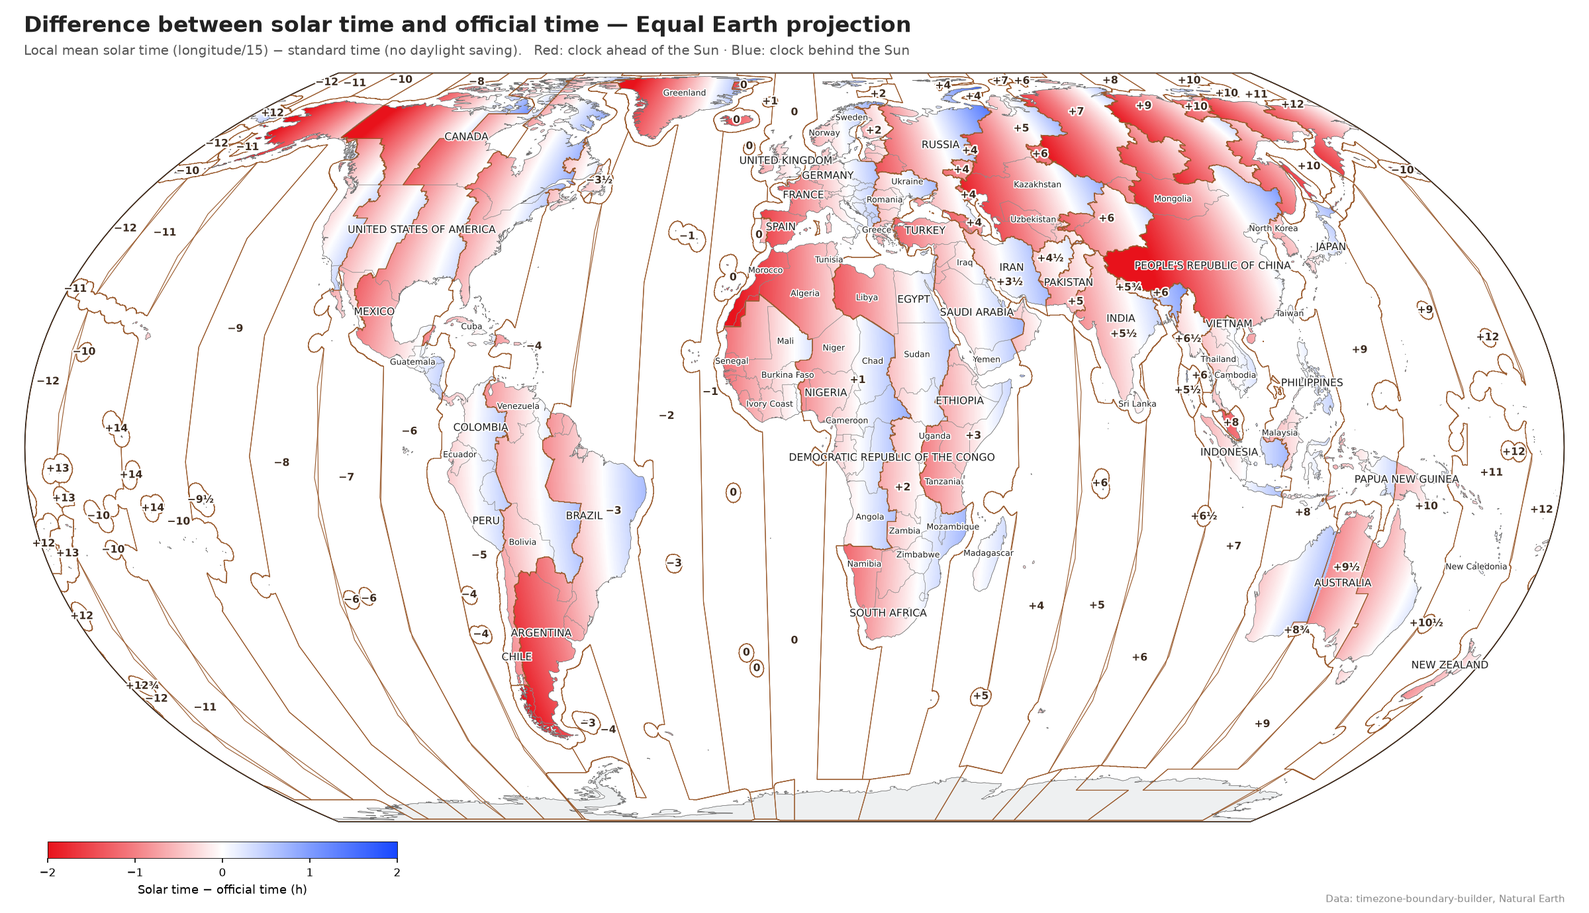
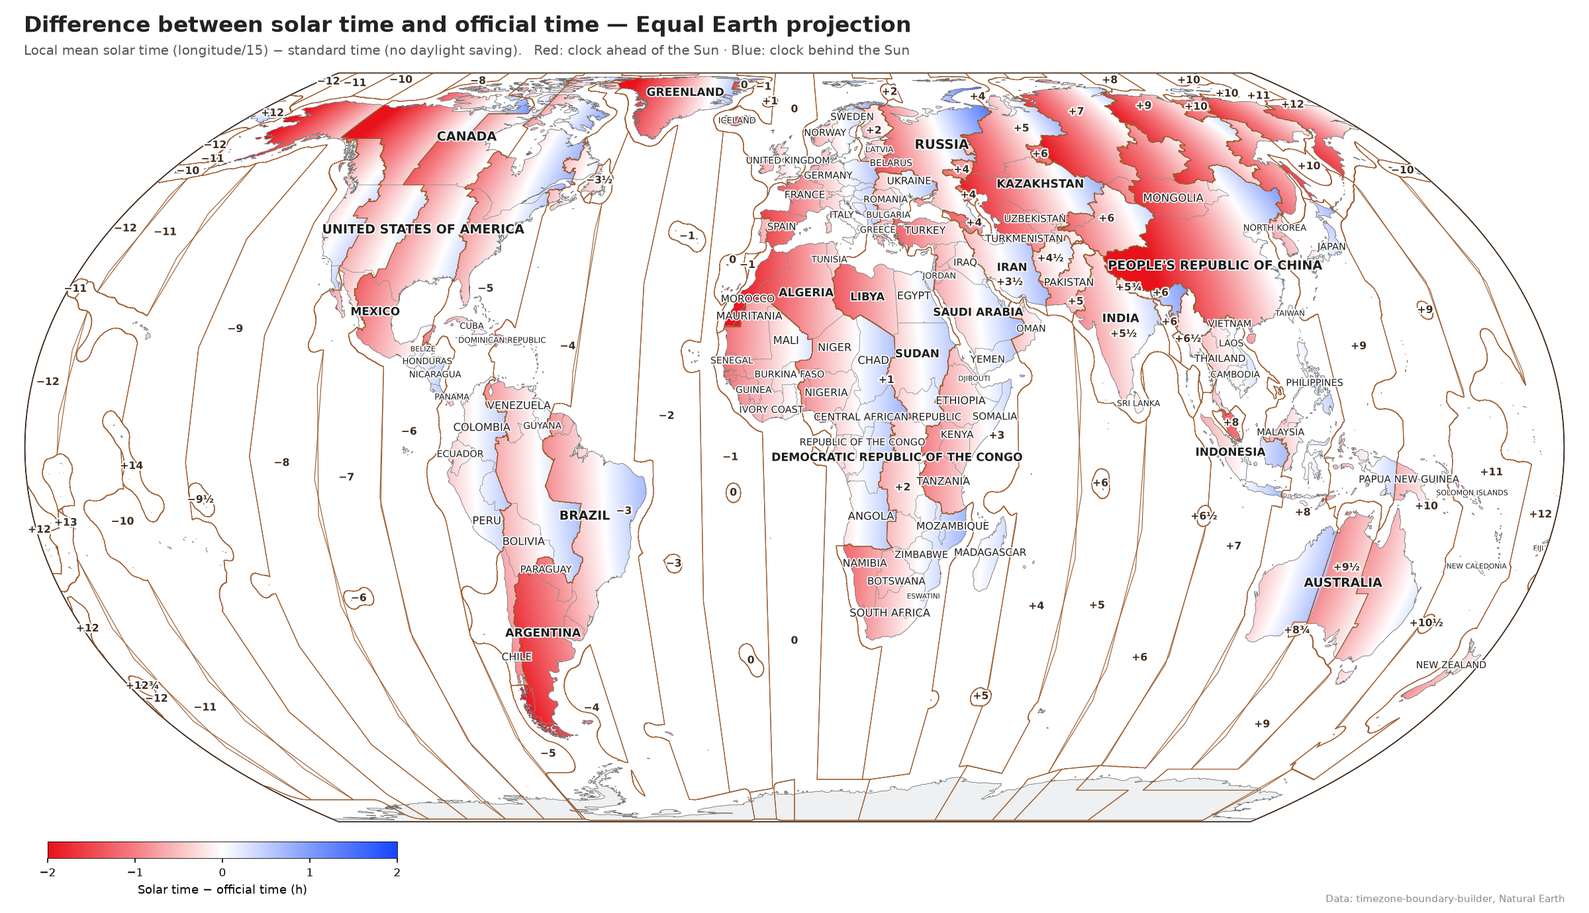
solar_time_map: join island groups, more names, ocean and sea labels
- --island-join (default 4°): morphological closing per UTC offset, so
  archipelagos (Hawaii, Line Islands, French Polynesia, Chile's islands)
  get one outline instead of a ring around each island
- Country names: all in capitals, sized by area, more countries, fallback
  spots and a smaller font for small countries in the zones map
- Zones map: ocean, sea and bay names (Natural Earth, translated) and the
  offset of each 15° strip under cylindrical maps
- Regenerated README images

diff --git a/solar_time_map.py b/solar_time_map.py
@@ -62,6 +62,7 @@ import rasterio.features
 from rasterio.transform import from_origin
 from scipy.ndimage import distance_transform_edt
 import shapely.geometry
+from shapely.ops import polylabel
 import cartopy.crs as ccrs
 
 warnings.filterwarnings("ignore", message="Geometry is in a geographic CRS")
@@ -77,6 +78,8 @@ URLS = {
                      "master/geojson/ne_50m_land.geojson"),
     "countries.geojson": ("https://raw.githubusercontent.com/nvkelso/natural-earth-vector/"
                           "master/geojson/ne_50m_admin_0_countries.geojson"),
+    "marine.geojson": ("https://raw.githubusercontent.com/nvkelso/natural-earth-vector/"
+                       "master/geojson/ne_50m_geography_marine_polys.geojson"),
 }
 
 # key: (cartopy factory, latitude limits or None for the whole globe)
@@ -100,6 +103,8 @@ ZONE_HALF_COLOR = "#c8acd9"
 ZONE_QUARTER_COLOR = "#e8a9c4"
 SEA_PALENESS = 0.55            # how much the sea colours are mixed with white
 HATCH_COLOR = "#7a5a46"
+OCEAN_COLOR = "#5f7f93"
+SEA_NAME_COLOR = "#6d8797"
 
 # ----------------------------------------------------------------------------
 # Translations
@@ -488,7 +493,38 @@ def load_timezones(path, date, tolerance):
 # ----------------------------------------------------------------------------
 # Grid (raster) of UTC offsets and of solar time − official time
 # ----------------------------------------------------------------------------
-def compute_grid(timezones, land, res, sea_margin):
+def join_islands(near_coast, nearest, radius, res):
+    """Closes the gaps of up to about 2·radius degrees between islands (and coasts)
+    with the same UTC offset, so an archipelago such as Hawaii, the Line Islands
+    or French Polynesia gets one outline instead of a ring around every island.
+
+    Morphological closing (dilation, then erosion) of each offset's area, done
+    with distance transforms; a sea cell is only filled when its nearest civil
+    zone has that offset, so different offsets never take each other's sea."""
+    r = radius / res
+    pad = int(np.ceil(2 * r)) + 2
+    wrap = lambda a: np.concatenate([a[:, -pad:], a, a[:, :pad]], axis=1)   # noqa: E731
+    area, near = wrap(near_coast), wrap(nearest)
+    joined = area.copy()
+    for v in np.unique(area[~np.isnan(area)]):
+        mask = area == v
+        # a closing never leaves the bounding box; the empty border lets it work
+        rows, cols = np.nonzero(mask.any(axis=1))[0], np.nonzero(mask.any(axis=0))[0]
+        y0, y1, x0, x1 = rows[0], rows[-1] + 1, cols[0], cols[-1] + 1
+        m = np.pad(mask[y0:y1, x0:x1], pad)
+        grown = distance_transform_edt(~m) <= r
+        closed = (distance_transform_edt(grown) > r)[pad:-pad, pad:-pad]
+        fill = closed & np.isnan(area[y0:y1, x0:x1]) & (near[y0:y1, x0:x1] == v)
+        joined[y0:y1, x0:x1][fill] = v
+    # fold the wrapped margins back onto the other side of the 180° meridian
+    out = joined[:, pad:-pad].copy()
+    for src, dst in ((joined[:, :pad], out[:, -pad:]), (joined[:, -pad:], out[:, :pad])):
+        take = np.isnan(dst) & ~np.isnan(src)
+        dst[take] = src[take]
+    return out
+
+
+def compute_grid(timezones, land, res, sea_margin, island_join):
     """Returns the UTC offset grid, the land, Antarctica and daylight-saving
     (land only) masks, and the zones as drawn.
 
@@ -497,8 +533,9 @@ def compute_grid(timezones, land, res, sea_margin):
     the Azores, Iceland or Kiribati would get the lines and labels of the strip
     around them (−2, −1, −11 ...). As on usual time-zone maps, every civil zone
     is therefore extended into the sea up to `sea_margin` degrees from its
-    coast (each sea cell takes the nearest civil zone); the nautical strips
-    only fill the open ocean beyond."""
+    coast (each sea cell takes the nearest civil zone), and nearby islands of
+    the same offset are joined (`island_join`, see join_islands); the nautical
+    strips only fill the open ocean beyond."""
     width, height = int(round(360 / res)), int(round(180 / res))
     transform = from_origin(-180, 90, res, res)
 
@@ -523,7 +560,10 @@ def compute_grid(timezones, land, res, sea_margin):
                                             return_indices=True)
     nearest = wrapped[iy, ix][:, pad:-pad]
     dist = dist[:, pad:-pad]
-    offset = np.where(dist <= sea_margin, nearest, sea)
+    near_coast = np.where(dist <= sea_margin, nearest, np.nan)
+    if island_join > 0:
+        near_coast = join_islands(near_coast, nearest, island_join, res)
+    offset = np.where(np.isnan(near_coast), sea, near_coast)
     offset = np.where(np.isnan(offset), nearest, offset)
 
     lat = 90 - res * (np.arange(height) + 0.5)
@@ -623,7 +663,7 @@ def country_name_column(countries):
 # ----------------------------------------------------------------------------
 # Drawing
 # ----------------------------------------------------------------------------
-def draw(offset, is_land, antarctica, dst, zones, land, countries, projection, limit,
+def draw(offset, is_land, antarctica, dst, zones, land, countries, marine, projection, limit,
          date, names, output, show, mode, res):
     factory, lat_lim = PROJECTIONS[projection]
     pc = ccrs.PlateCarree()
@@ -670,12 +710,14 @@ def draw(offset, is_land, antarctica, dst, zones, land, countries, projection, l
     fig.canvas.draw()          # needed to measure texts
 
     # Labels, first come first served:
-    #   1. names of the main countries (label rank 1-2)
+    #   1. names of the large countries
     #   2. UTC offsets of small regions: islands with a zone of their own
     #      (Azores, Iceland, Kiribati, Chatham ...), which names would cover
-    #   3. names of the other countries
-    #   4. UTC offsets of the large regions (largest first)
-    # On the time-zone map the offsets are the main content: they all go first.
+    #   3. (time-zone map) names of the medium countries, then the UTC offset of
+    #      every large enough land part of a zone
+    #   4. names of the other countries
+    #   5. (time-zone map) names of the oceans, seas and bays
+    #   6. UTC offsets of the large regions (largest first)
     zones_map = mode == "zones"
     halo = [pe.withStroke(linewidth=2.2, foreground="white")]
     regions = regions.assign(area=regions.geometry.area).sort_values("area", ascending=False)
@@ -697,12 +739,63 @@ def draw(offset, is_land, antarctica, dst, zones, land, countries, projection, l
                     placed.append((v, p))
                     break
 
+    def inside_map(p):
+        return not lat_lim or lat_lim[0] + 1 < p.y < lat_lim[1] - 1
+
+    # Country names, all in capitals, sized by the country's area; when the
+    # usual spot is taken, a few other points inside the country are tried
     sel = countries.iloc[0:0]
     if names:
         col = country_name_column(countries)
-        sel = countries[(countries["LABELRANK"] <= 3) & (countries["CONTINENT"] != "Antarctica")]
-        sel = sel.sort_values(["LABELRANK", "POP_EST"], ascending=[True, False])
+        sel = countries[countries["CONTINENT"] != "Antarctica"]
+        area_km2 = sel.geometry.to_crs("ESRI:54009").area / 1e6       # Mollweide
+        size = np.clip(3.2 + 1.5 * np.log10(area_km2.clip(lower=1) / 1000), 0, 10.5)
+        sel = sel.assign(size=size)[size >= 5].sort_values("size", ascending=False)
+
+    def label_countries(rows):
+        for _, r in rows.iterrows():
+            name = (str(r[col]) if r[col] else str(r["NAME"])).upper()
+            main_part = max(getattr(r.geometry, "geoms", [r.geometry]), key=lambda g: g.area)
+            spots = [shapely.geometry.Point(r["LABEL_X"], r["LABEL_Y"])] + label_points(main_part, 5)[:6]
+            tries = [(r["size"], p) for p in spots]
+            if zones_map and r["size"] < 7.5:
+                # small countries in crowded areas (Portugal, Benelux): a smaller
+                # font, inside or just beside the country
+                x, y = r["LABEL_X"], r["LABEL_Y"]
+                beside = [shapely.geometry.Point(x + dx, y + dy)
+                          for dx, dy in ((-3, 0), (3, 0), (0, 2), (0, -2), (-5, 0), (5, 0),
+                                         (-4, 2), (4, 2), (-4, -2), (4, -2), (0, 3.5))]
+                tries += [(4.6, p) for p in spots + beside]
+            any(lab.text(p.x, p.y, shape(name), transform=pc, fontsize=fs,
+                         color="#1d1d1d", ha="center", va="center",
+                         fontweight="bold" if fs >= 8 else "normal",
+                         path_effects=[pe.withStroke(linewidth=1.6 if fs > 5 else 1.2,
+                                                     foreground="white")],
+                         zorder=5, margin=2 if fs > 5 else 1)
+                for fs, p in tries if inside_map(p))
+
+    def label_marine():
+        """Oceans (capitals, spaced letters) and the main seas, gulfs and bays."""
+        mcol = f"name_{LANG}" if f"name_{LANG}" in marine.columns else "name"
+        sea = marine[marine["scalerank"] <= 2].sort_values("scalerank")
+        for _, r in sea.iterrows():
+            name = str(r[mcol] or r["name_en"] or r["name"])
+            ocean = r["featurecla"] == "ocean"
+            if ocean and LANG not in ("zh", "ja", "ar"):
+                name = " ".join(name.upper())
+            main_part = max(getattr(r.geometry, "geoms", [r.geometry]), key=lambda g: g.area)
+            spots = [polylabel(main_part, tolerance=0.5)] + label_points(main_part, 5)[:4]
+            for p in filter(inside_map, spots):
+                if lab.text(p.x, p.y, shape(name), transform=pc,
+                            fontsize=10 if ocean else 6.5, style="italic",
+                            color=OCEAN_COLOR if ocean else SEA_NAME_COLOR,
+                            ha="center", va="center", zorder=5):
+                    break
+
+    label_countries(sel[sel["size"] >= 7.5])
+    label_offsets(regions[small & (regions["area"] >= 3)])
     if zones_map:
+        label_countries(sel[(sel["size"] >= 6) & (sel["size"] < 7.5)])
         # The land part of a zone often merges with the nautical strip of the same
         # offset (eastern USA and the Atlantic −5), so it gets a label of its own
         on_land = is_land & ~antarctica & ~np.isnan(offset)
@@ -712,26 +805,20 @@ def draw(offset, is_land, antarctica, dst, zones, land, countries, projection, l
                                                   transform=from_origin(-180, 90, res, res))],
             crs="EPSG:4326")
         land_regions = land_regions.assign(area=land_regions.geometry.area)
-        land_regions = land_regions[land_regions["area"] >= 8].sort_values("area", ascending=False)
-        label_offsets(regions[small & (regions["area"] >= 3)])
-        label_offsets(land_regions, skip_near=6)
-        label_offsets(regions[~small], skip_near=6)
-    for main in (True, False):
-        if not main and not zones_map:
-            label_offsets(regions[small & (regions["area"] >= 3)])
-        for _, r in sel[(sel["LABELRANK"] <= 2) == main].iterrows():
-            rank = int(r["LABELRANK"])
-            name = str(r[col]) if r[col] else str(r["NAME"])
-            name = name.upper() if rank <= 2 else name
-            if lat_lim and not (lat_lim[0] < r["LABEL_Y"] < lat_lim[1]):
-                continue
-            lab.text(r["LABEL_X"], r["LABEL_Y"], shape(name), transform=pc,
-                     fontsize={1: 9, 2: 7.5, 3: 6}[rank], color="#1d1d1d",
-                     ha="center", va="center", fontweight="bold" if rank == 1 else "normal",
-                     path_effects=[pe.withStroke(linewidth=1.6, foreground="white")], zorder=5)
+        land_regions = land_regions[land_regions["area"] >= 0.8].sort_values("area", ascending=False)
+        label_offsets(land_regions, skip_near=8)
+    label_countries(sel[sel["size"] < (6 if zones_map else 7.5)])
+    if zones_map:
+        label_marine()
+    label_offsets(regions[~small], skip_near=6 if zones_map else None)
 
-    if not zones_map:
-        label_offsets(regions[~small])
+    # Cylindrical maps: the offset of each 15° nautical strip under the map
+    if zones_map and lat_lim:
+        for h in range(-12, 13):
+            lon = min(max(h * 15, -176.25), 176.25)
+            ax.annotate(format_offset(h), (lon, lat_lim[0]), xycoords=pc._as_mpl_transform(ax),
+                        xytext=(0, -3), textcoords="offset points", ha="center", va="top",
+                        fontsize=8, fontweight="bold", color="#3b2a1e", annotation_clip=False)
 
     # Titles, colour scale and credits (mirrored for right-to-left languages)
     rtl = LANG in RTL
@@ -797,6 +884,10 @@ def main():
     p.add_argument("--sea-margin", type=float, default=1.5,
                    help="how far (degrees) each civil time zone extends into the sea "
                         "before the nautical zones take over (default: 1.5)")
+    p.add_argument("--island-join", type=float, default=4.0,
+                   help="join islands (and coasts) with the same UTC offset that are up to "
+                        "about twice this many degrees apart into one zone outline; "
+                        "0 = a separate outline around every island (default: 4)")
     p.add_argument("--no-names", action="store_true", help="hide country names")
     p.add_argument("--output", "-o",
                    help="output file: png, pdf or svg "
@@ -831,10 +922,12 @@ def main():
     timezones = load_timezones(paths["timezones.zip"], date, a.simplify)
     land = gpd.read_file(paths["land.geojson"])
     countries = gpd.read_file(paths["countries.geojson"])
+    marine = gpd.read_file(paths["marine.geojson"])
 
     output = a.output or ("time_zones_map.png" if a.mode == "zones" else "solar_time_map.png")
-    offset, is_land, antarctica, dst, zones = compute_grid(timezones, land, a.res, a.sea_margin)
-    draw(offset, is_land, antarctica, dst, zones, land, countries, a.projection, a.limit,
+    offset, is_land, antarctica, dst, zones = compute_grid(timezones, land, a.res, a.sea_margin,
+                                                            a.island_join)
+    draw(offset, is_land, antarctica, dst, zones, land, countries, marine, a.projection, a.limit,
          date, not a.no_names, output, a.show, a.mode, a.res)
 
 

diff --git a/CLAUDE.md b/CLAUDE.md
@@ -7,7 +7,7 @@ Neste PC usa-se `python3` (não `python`).
 | Script | O que gera | Saída típica |
 |---|---|---|
 | `solar_graph.py` | Gráfico anual de luz solar de um local: dia, crepúsculos civil/náutico/astronómico, noite, meio-dia e meia-noite solares, faixa detalhada de um dia. Elevação do Sol calculada minuto a minuto (funciona em latitudes polares). Textos em inglês ou português (`--lang en/pt`). Comparação de horários: `--mark HH:MM` (linhas tracejadas, repetível), `--dst legal/off/on` (hora de verão real, desligada, ou simulada onde não existe — regra europeia a norte, out→abr a sul; ver `simulated_dst`) e `--shift ±H` (muda a hora padrão); tudo em `local_offsets`, e a nota "Simulação" aparece a vermelho por baixo do título. Antes chamava-se `grafico_sol.py` (em português); sem estas opções e com `--lang pt` gera imagens idênticas às do original. | `images/solar_graph_tromso_{en,pt}.png`, `images/solar_graph_lisboa_{en,pt}.png` (`--day 06-21 --mark 08:30 --mark 17:30 --dst off`) |
-| `solar_time_map.py` | Mapa mundial "hora solar média − hora oficial" (vermelho = relógio adiantado, azul = atrasado). Textos e nomes de países em 10 idiomas (`--lang`; `--lang pt` para português). Substituiu a versão original só em português, `mapa_hora_solar.py`, já apagada. `--mode zones` gera antes um mapa clássico dos fusos (tipo Wikipédia): cor pastel por desvio (`zone_colours`, mais clara no mar), riscado onde há hora de verão (ou, com `--date`, onde está em vigor); os rótulos de desvio vão primeiro e cada parte em terra de um fuso tem rótulo próprio. Sem `--mode zones` o mapa sai idêntico ao de antes. | `solar_time_map.png` (padrão), `time_zones_map.png` (`--mode zones`), `images/time_zones_map_{en,pt}.png` (`--mode zones -p miller`), `equal-earth.png`, `miller.png`, `mapa_pt_robinson.png`, `exemplos_zh_ar_ja_ru.png` |
+| `solar_time_map.py` | Mapa mundial "hora solar média − hora oficial" (vermelho = relógio adiantado, azul = atrasado). Textos e nomes de países em 10 idiomas (`--lang`; `--lang pt` para português). Substituiu a versão original só em português, `mapa_hora_solar.py`, já apagada. `--mode zones` gera antes um mapa clássico dos fusos (tipo Wikipédia): cor pastel por desvio (`zone_colours`, mais clara no mar), riscado onde há hora de verão (ou, com `--date`, onde está em vigor), cada parte em terra de um fuso com rótulo próprio, nomes de oceanos/mares/baías (Natural Earth `marine.geojson`, `name_<lang>`) e, nas projeções cilíndricas, a fila de desvios das faixas por baixo do mapa. | `solar_time_map.png` (padrão), `time_zones_map.png` (`--mode zones`), `images/time_zones_map_{en,pt}.png` (`--mode zones -p miller`), `equal-earth.png`, `miller.png`, `mapa_pt_robinson.png`, `exemplos_zh_ar_ja_ru.png` |
 | `earth_moon_sun.py` | Animação Terra · Lua · Sol (3 atos: rotação de 24 h, mês sinódico com eclipses e órbita inclinada da Lua, ano em órbita kepleriana com estações). Ray tracer em numpy. Textos `--lang en/pt`. Antes chamava-se `earth_moon_sun_v2.py`; a versão anterior, mais simples, ficou em `earth_moon_sun_old.py` (a apagar). | `earth_moon_sun.mp4` (padrão); `earth_moon_sun_v2.mp4` é o vídeo completo em português desta versão, e o `earth_moon_sun.mp4` que existe é da versão antiga |
 
 Documentação para partilhar: `README.md` (inglês) e `README.pt.md` (português europeu), com ligações
@@ -54,11 +54,22 @@ python3 earth_moon_sun.py --scenes 2 --lang en
   continuidade nos 180°). As faixas náuticas só preenchem o mar aberto. Sem isto, as linhas e os
   rótulos dos Açores (−1), da Islândia (0), de Kiribati (+14), Samoa/Tonga/Tokelau (+13), Chatham
   (+12¾) etc. ficavam com o valor da faixa à volta.
+- `join_islands` (`--island-join`, padrão 4°): fecho morfológico (dilatar e erodir, com
+  transformadas de distância) da área de cada desvio, para que um arquipélago (Havai, Line Islands,
+  Polinésia Francesa, ilhas do Chile) fique numa só linha em vez de "bolinhas"; uma célula de mar só
+  é preenchida se o fuso civil mais próximo tiver esse desvio. Também mete a baía de Hudson nos
+  fusos do Canadá, como no mapa da Wikipédia. `--island-join 0` volta ao comportamento antigo.
 - As linhas e os rótulos de desvio são desenhados a partir dessa grelha vetorizada
   (`rasterio.features.shapes`) e unida por desvio; as cores em terra usam o desvio do fuso civil.
-- Ordem dos rótulos (o primeiro a ocupar o lugar ganha): nomes dos países principais (LABELRANK 1–2),
-  desvios das regiões pequenas (< 200 graus², ilhas com fuso próprio), restantes nomes, desvios das
-  regiões grandes. Cada rótulo de desvio tenta vários pontos dentro da região (`label_points`).
+- Nomes dos países: todos em maiúsculas, tamanho pela área (Mollweide), todos os países com
+  ≥ ~15 000 km². Cada nome tenta vários pontos dentro do país; no mapa dos fusos, os países pequenos
+  tentam ainda letra menor ao lado do país (Portugal fica ao lado de "ESPANHA"). A Bélgica e os
+  Países Baixos ainda não cabem no Miller.
+- Ordem dos rótulos (o primeiro a ocupar o lugar ganha): nomes dos países grandes, desvios das
+  regiões pequenas (< 200 graus², ilhas com fuso próprio), [fusos: nomes médios e desvio de cada
+  parte em terra], restantes nomes, [fusos: oceanos e mares], desvios das regiões grandes. Cada
+  rótulo de desvio tenta vários pontos dentro da região (`label_points`); no mapa dos fusos, um
+  desvio igual a menos de 6–8° de outro já escrito é omitido.
 
 ## Notas
 

diff --git a/README.pt.md b/README.pt.md
@@ -123,7 +123,9 @@ As linhas castanhas são os limites entre desvios UTC e os números são os
 próprios desvios. No mar, cada fuso é prolongado um pouco a partir da costa
 (`--sea-margin`, 1,5° por omissão), para que ilhas pequenas como os Açores
 (−1), a Islândia (0), Kiribati (+14) ou as ilhas Chatham (+12¾) tenham linha e
-rótulo próprios. Para lá disso, o mar alto usa os fusos náuticos (faixas de 15°).
+rótulo próprios. As ilhas próximas com o mesmo desvio ficam dentro de uma só
+linha (`--island-join`), como o Havai, a Polinésia Francesa ou as ilhas do
+Chile no Pacífico. Para lá disso, o mar alto usa os fusos náuticos (faixas de 15°).
 
 Por omissão o mapa usa a hora padrão (sem hora de verão); `--date` mostra a
 hora legal em vigor num dado dia.
@@ -142,7 +144,9 @@ python solar_time_map.py -p miller --output miller.png --no-names
 `--mode zones` desenha antes um mapa clássico dos fusos horários: uma cor
 pastel por desvio UTC (as meias horas e os quartos de hora têm cores
 próprias), cores mais claras no mar alto e, riscados, os locais com hora de
-verão. Com `--date`, o mapa mostra os desvios em vigor nesse dia e o riscado
+verão. Mostra também os nomes dos oceanos e dos principais mares e baías e, nas
+projeções cilíndricas (`miller`, `mercator`), o desvio de cada faixa de 15° por
+baixo do mapa. Com `--date`, o mapa mostra os desvios em vigor nesse dia e o riscado
 marca onde a hora de verão está em vigor. As outras opções funcionam como
 acima (`--limit` só se aplica ao mapa da hora solar).
 
@@ -159,6 +163,7 @@ python solar_time_map.py --mode zones --date 2026-07-01 --lang pt
 | `--date AAAA-MM-DD` | Usa a hora legal desse dia (com hora de verão) |
 | `--limit` | Diferença em horas mostrada com a cor mais intensa (por omissão 2; só no mapa da hora solar) |
 | `--sea-margin` | Quanto (em graus) cada fuso se prolonga para o mar (por omissão 1,5) |
+| `--island-join` | Junta ilhas com o mesmo desvio que distem até cerca do dobro destes graus (por omissão 4; 0 = uma linha à volta de cada ilha) |
 | `--res` | Resolução da grelha em graus (por omissão 0,1) |
 | `--simplify` | Tolerância de simplificação dos polígonos em graus (por omissão 0,02) |
 | `--no-names` | Esconde os nomes dos países |

diff --git a/README.md b/README.md
@@ -121,7 +121,9 @@ Brown lines are the limits between UTC offsets, and the numbers are the offsets
 themselves. Over the sea, each time zone is extended a little from its coast
 (`--sea-margin`, 1.5° by default), so small islands such as the Azores (−1),
 Iceland (0), Kiribati (+14) or the Chatham Islands (+12¾) get their own line
-and label. Beyond that, the open ocean uses the nautical time zones (15° strips).
+and label. Nearby islands with the same offset are joined into one outline
+(`--island-join`), as for Hawaii, French Polynesia or Chile's Pacific islands.
+Beyond that, the open ocean uses the nautical time zones (15° strips).
 
 By default the map uses standard time (no daylight saving); `--date` shows the
 legal time in force on a given day instead.
@@ -139,7 +141,10 @@ python solar_time_map.py -p miller --output miller.png --no-names
 
 `--mode zones` draws a classic time-zone map instead: one pastel colour per
 UTC offset (half and quarter hours have colours of their own), paler colours
-over the open sea, and the places that use daylight saving time hatched. With
+over the open sea, and the places that use daylight saving time hatched. It
+also names the oceans and the main seas and bays, and, on cylindrical
+projections (`miller`, `mercator`), writes the offset of each 15° strip under
+the map. With
 `--date` the map shows the offsets in force on that day, and the hatching
 marks where daylight saving time is in force. All other options work as
 above (`--limit` only applies to the solar map).
@@ -157,6 +162,7 @@ python solar_time_map.py --mode zones --date 2026-07-01 --lang pt
 | `--date YYYY-MM-DD` | Use the legal time of that day (daylight saving included) |
 | `--limit` | Difference in hours shown with the strongest colour (default 2; solar map only) |
 | `--sea-margin` | How far (degrees) each time zone extends into the sea (default 1.5) |
+| `--island-join` | Joins islands with the same offset up to about twice this many degrees apart (default 4; 0 = an outline around every island) |
 | `--res` | Grid resolution in degrees (default 0.1) |
 | `--simplify` | Polygon simplification tolerance in degrees (default 0.02) |
 | `--no-names` | Hide country names |
